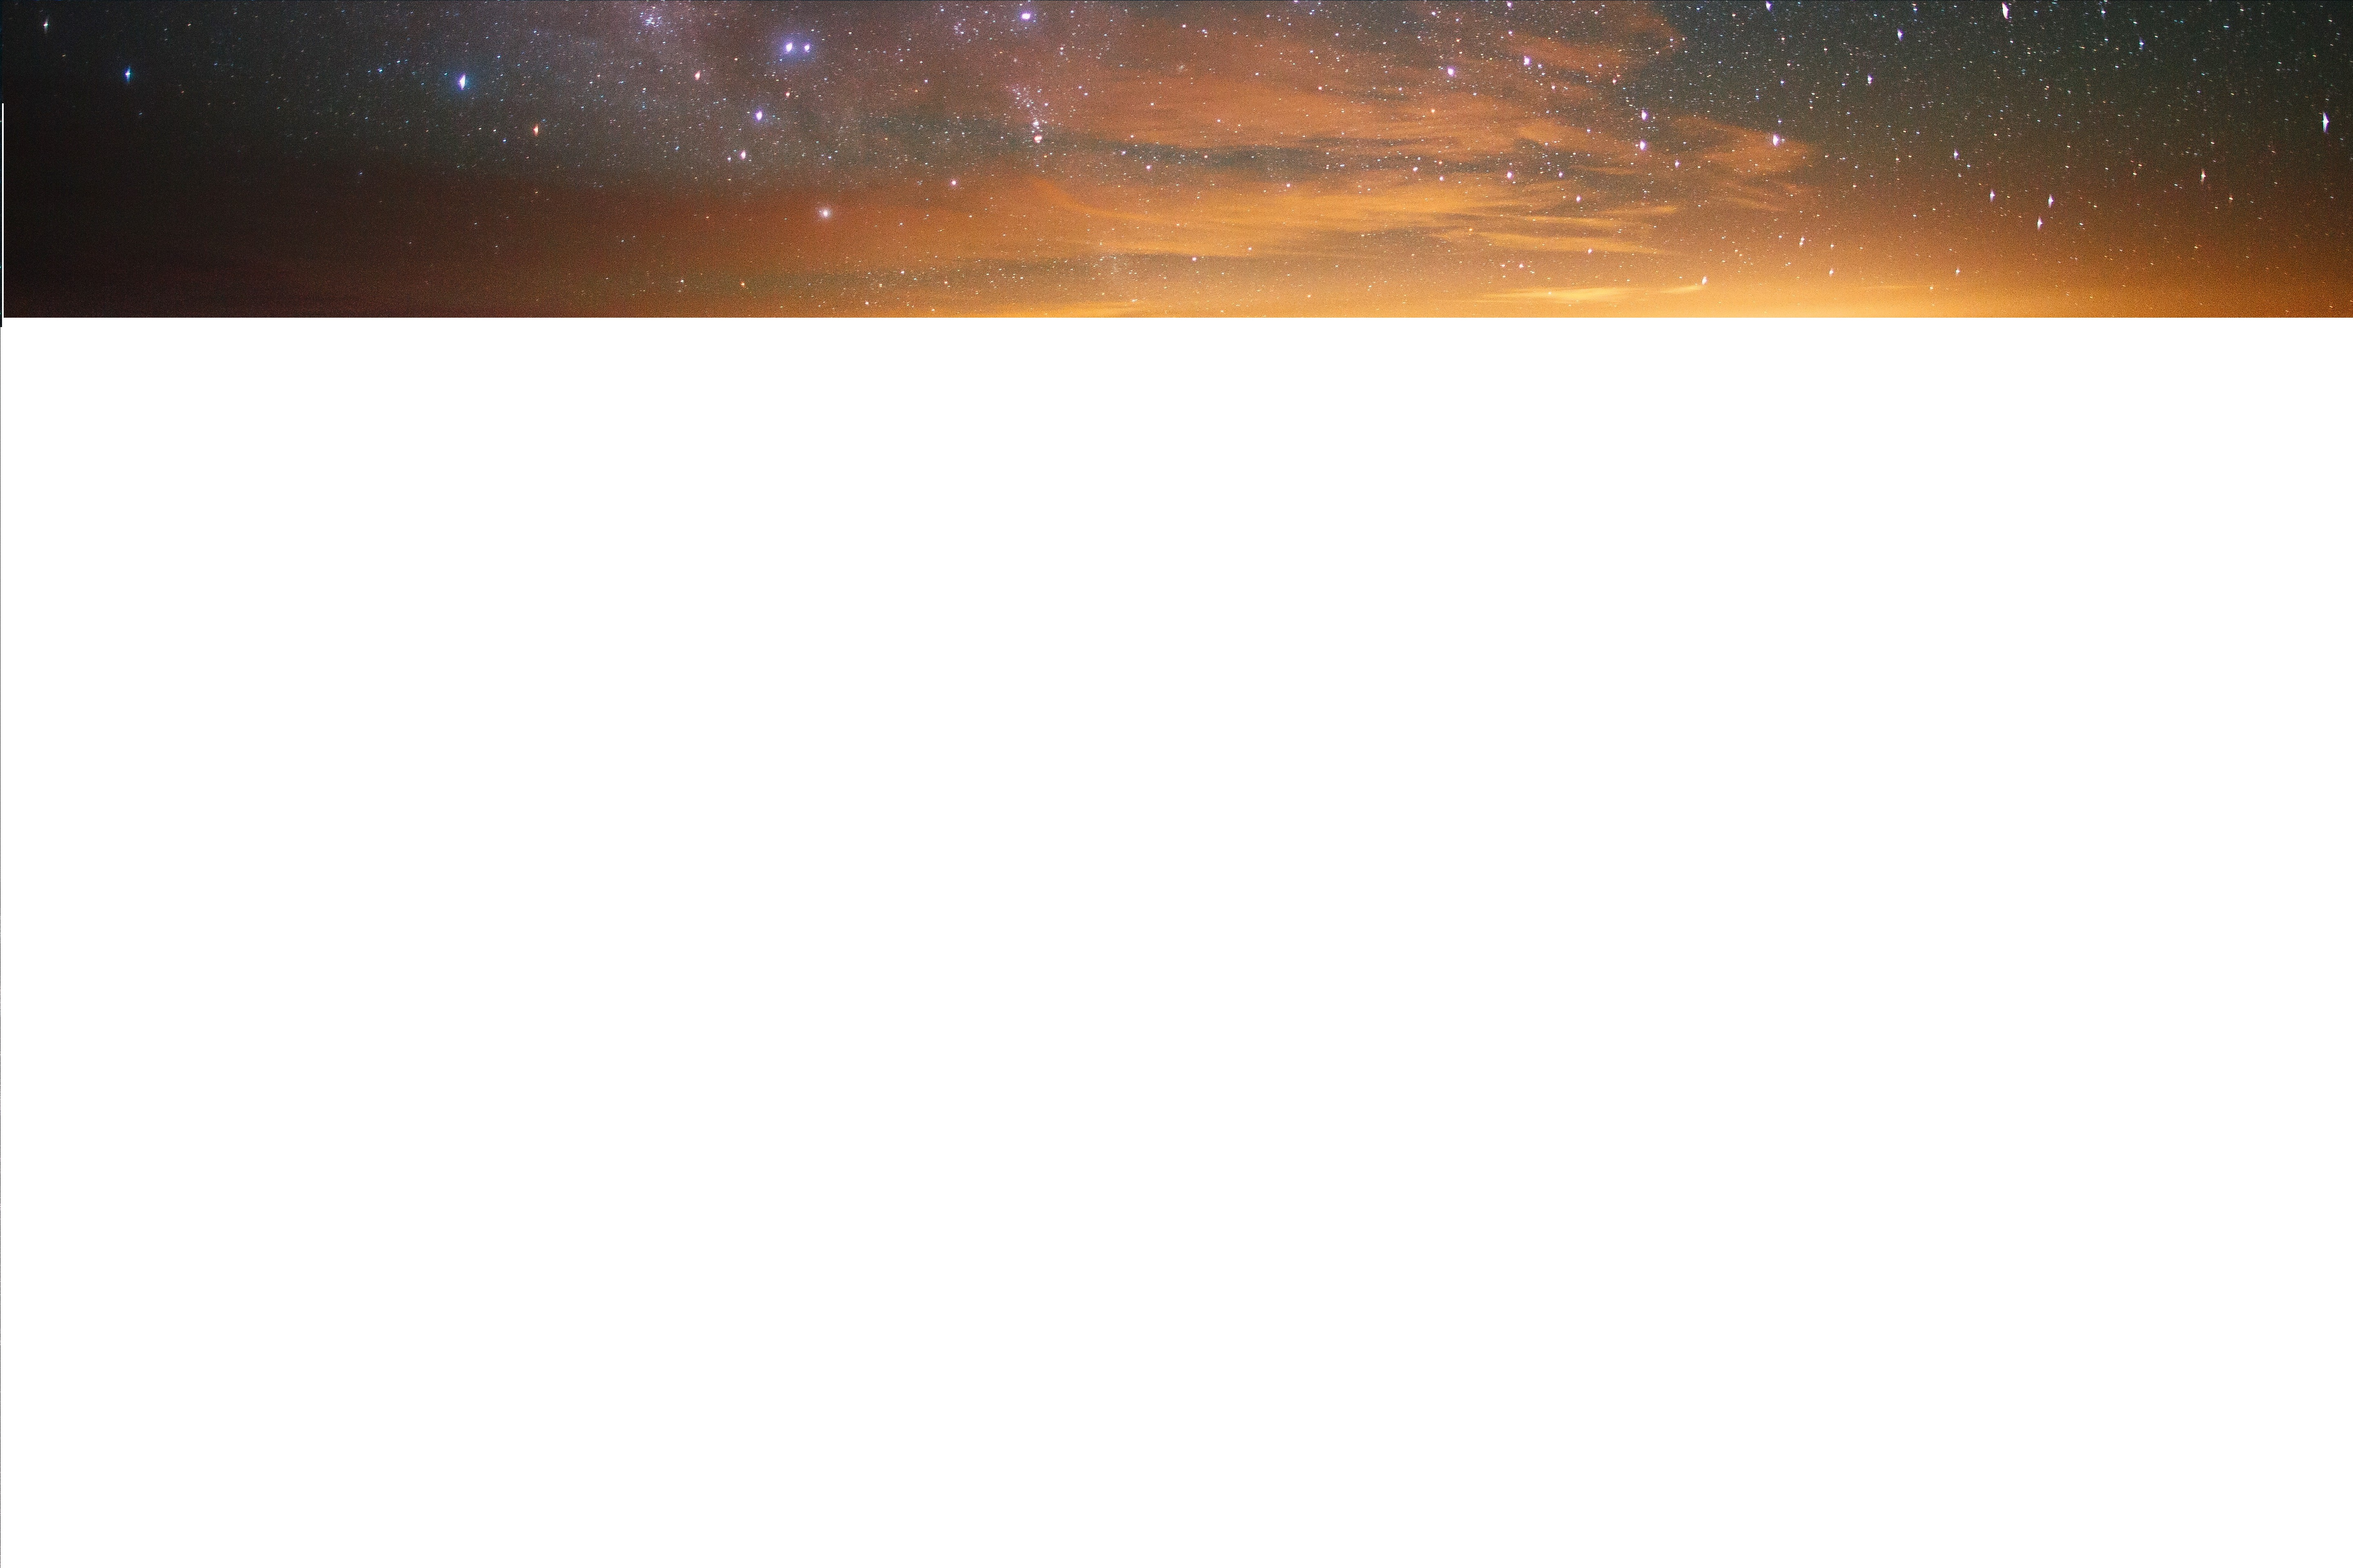
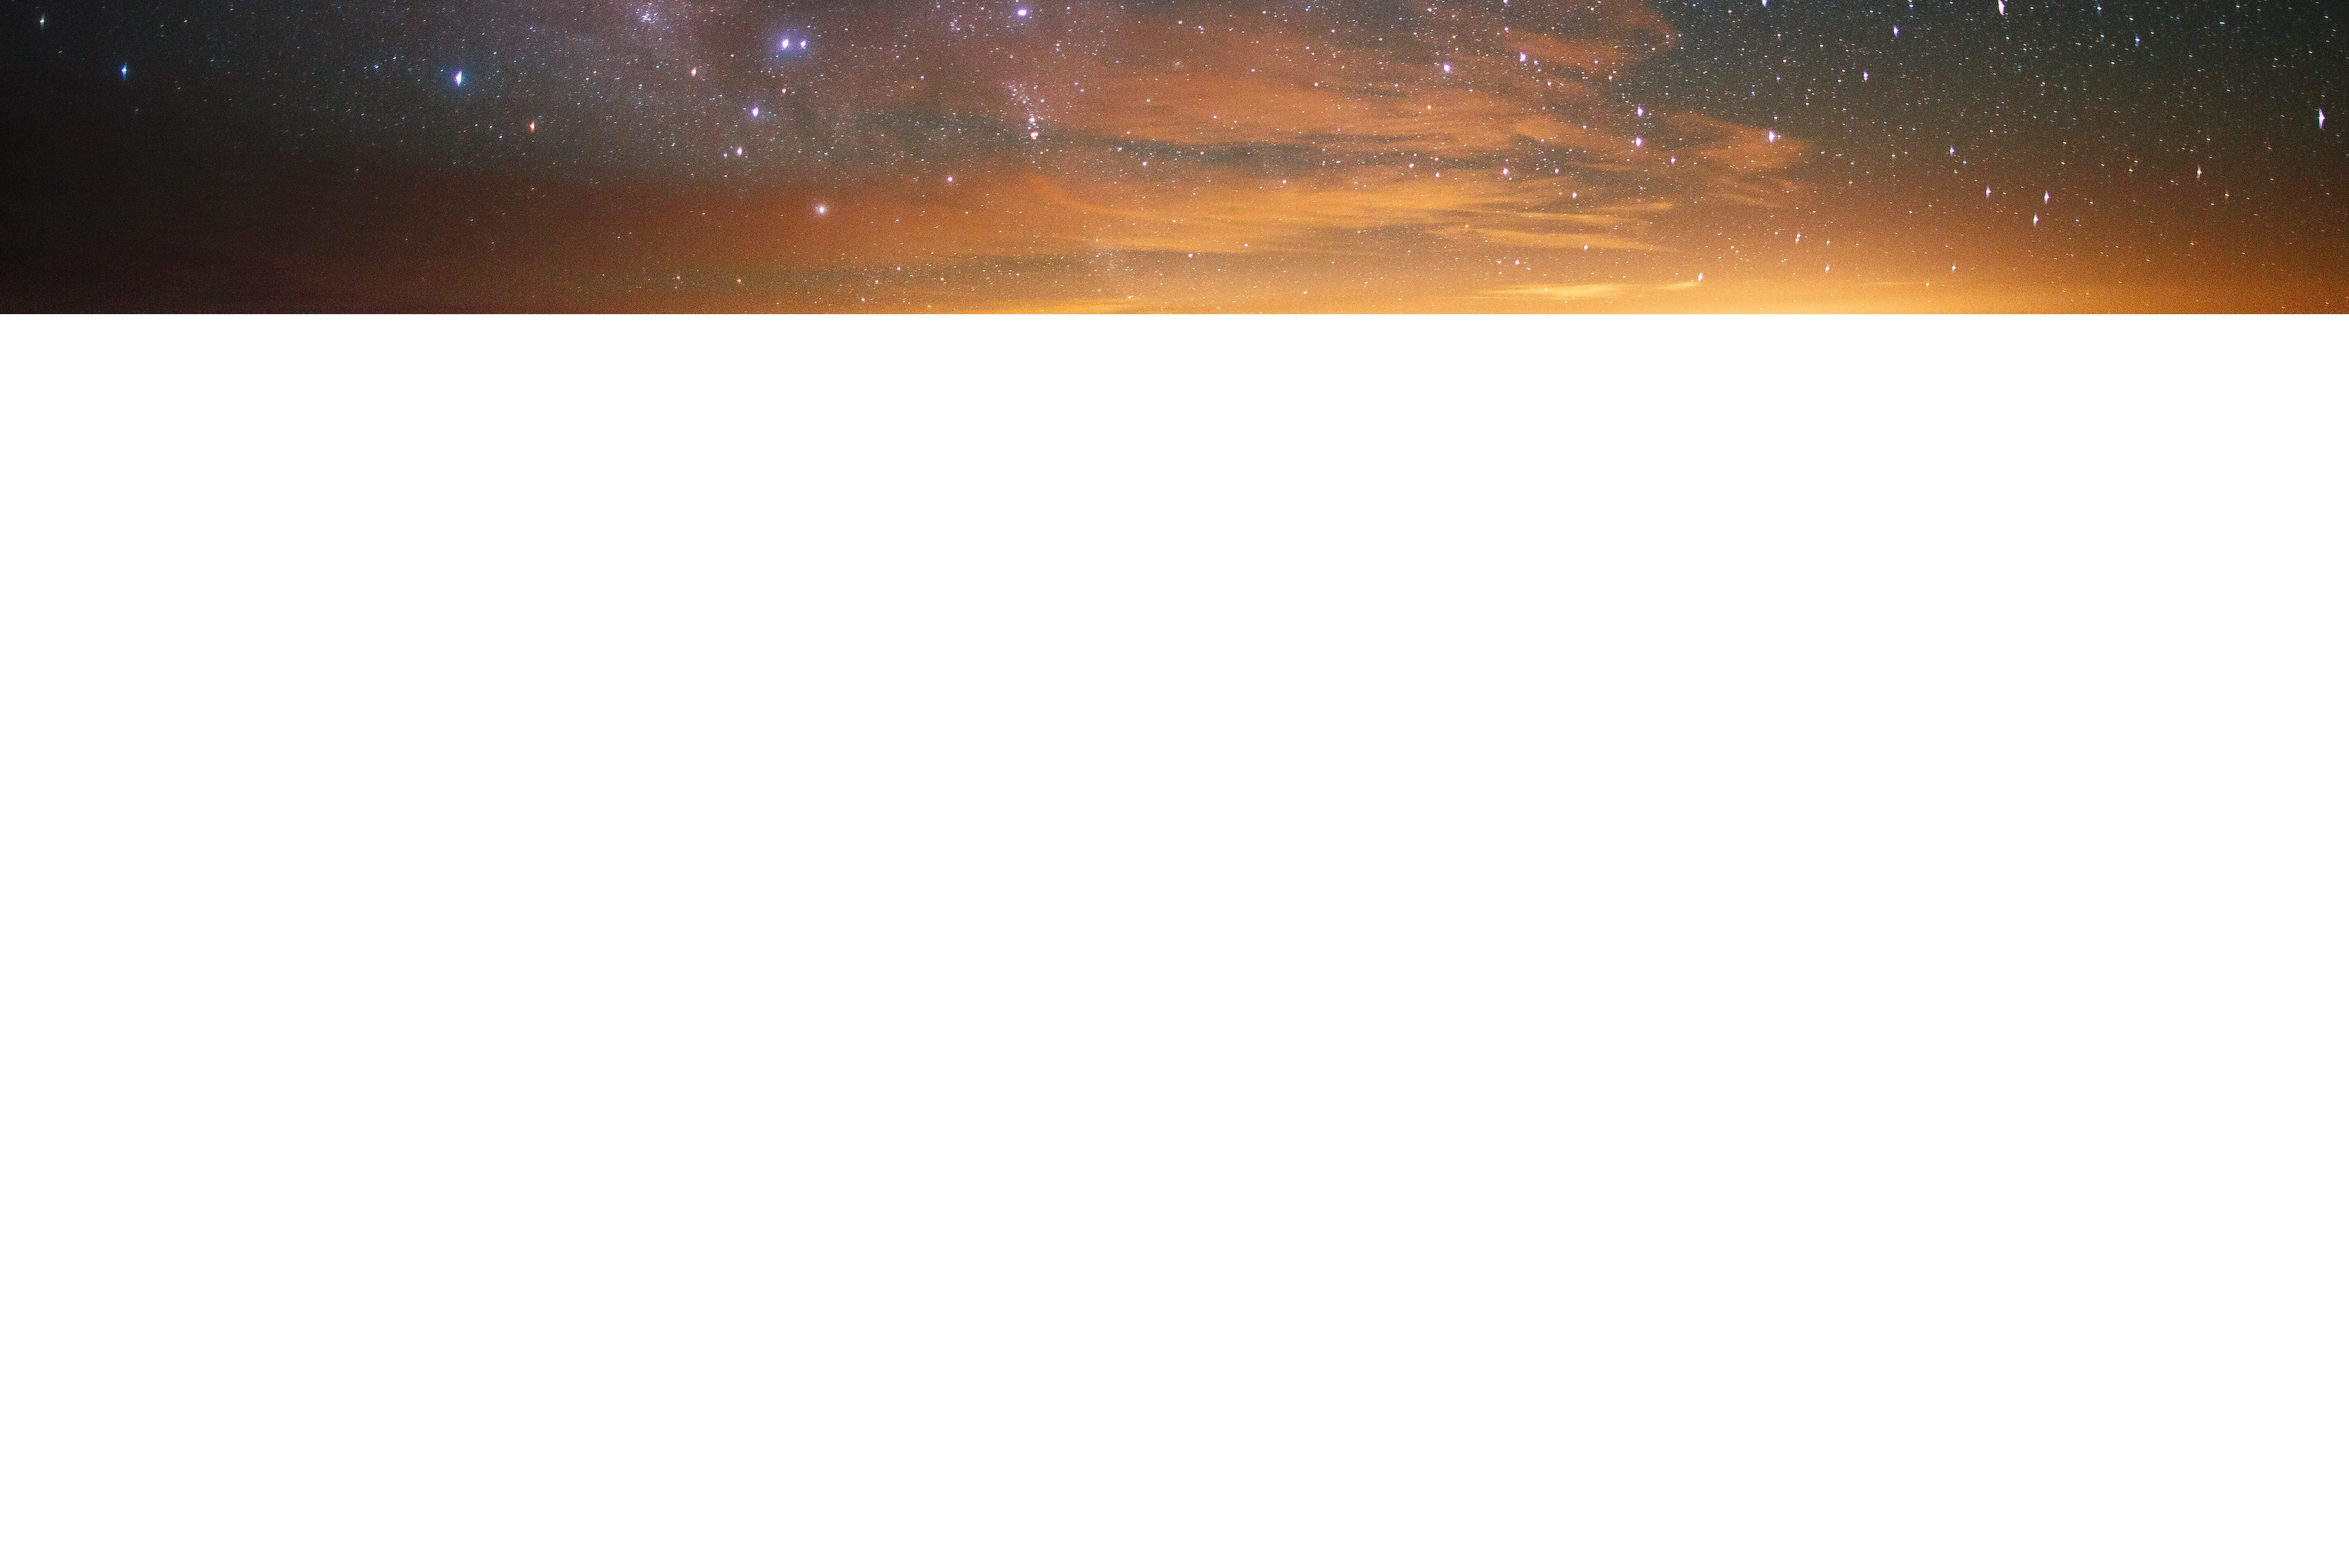
complete final scene

Changed region(s): [[0.0934, 0.0, 1.0, 0.2174], [0.0, 0.1864, 0.0311, 0.2174]]

diff --git a/raytracer/src/main.rs b/raytracer/src/main.rs
@@ -35,10 +35,10 @@ mod texture;
 
 // Image
 const ASPECT_RATIO: f64 = 16.0 / 10.0;
-const IMAGE_WIDTH: u32 = 1200;
+const IMAGE_WIDTH: u32 = 2560;
 const IMAGE_HEIGHT: u32 = (IMAGE_WIDTH as f64 / ASPECT_RATIO) as u32;
-const SAMPLES_PER_PIXEL: u32 = 100;
-const MAX_DEPTH: i32 = 50;
+const SAMPLES_PER_PIXEL: u32 = 8000;
+const MAX_DEPTH: i32 = 60;
 
 // Threads
 const THREAD_NUM: u32 = 20;
